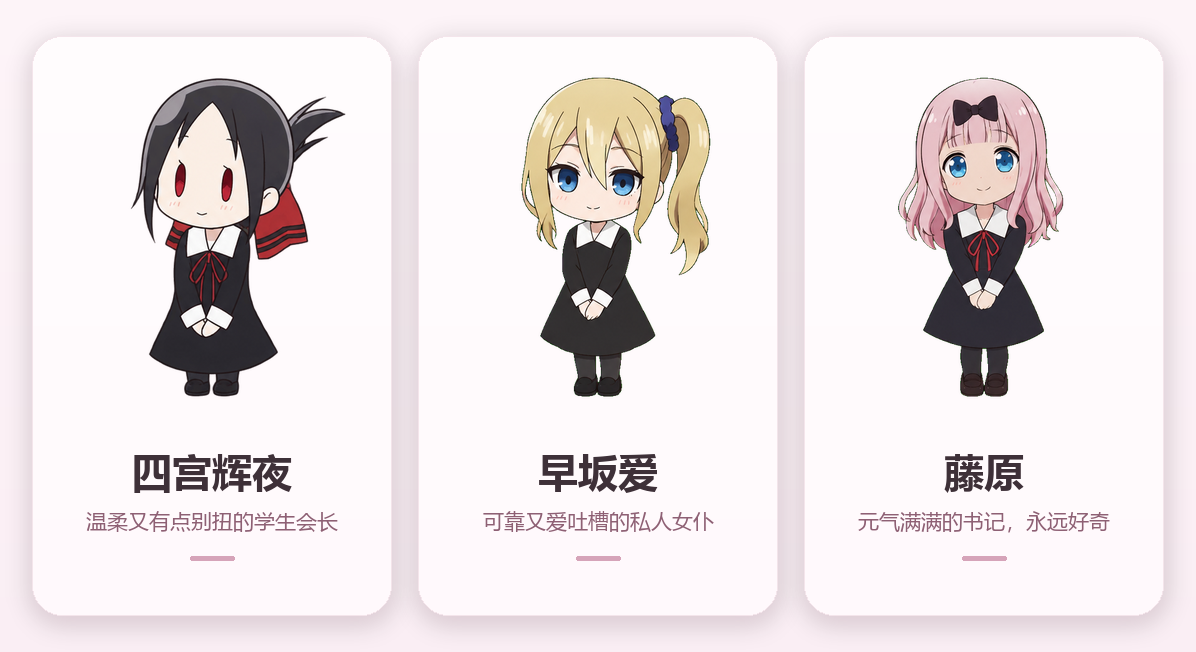
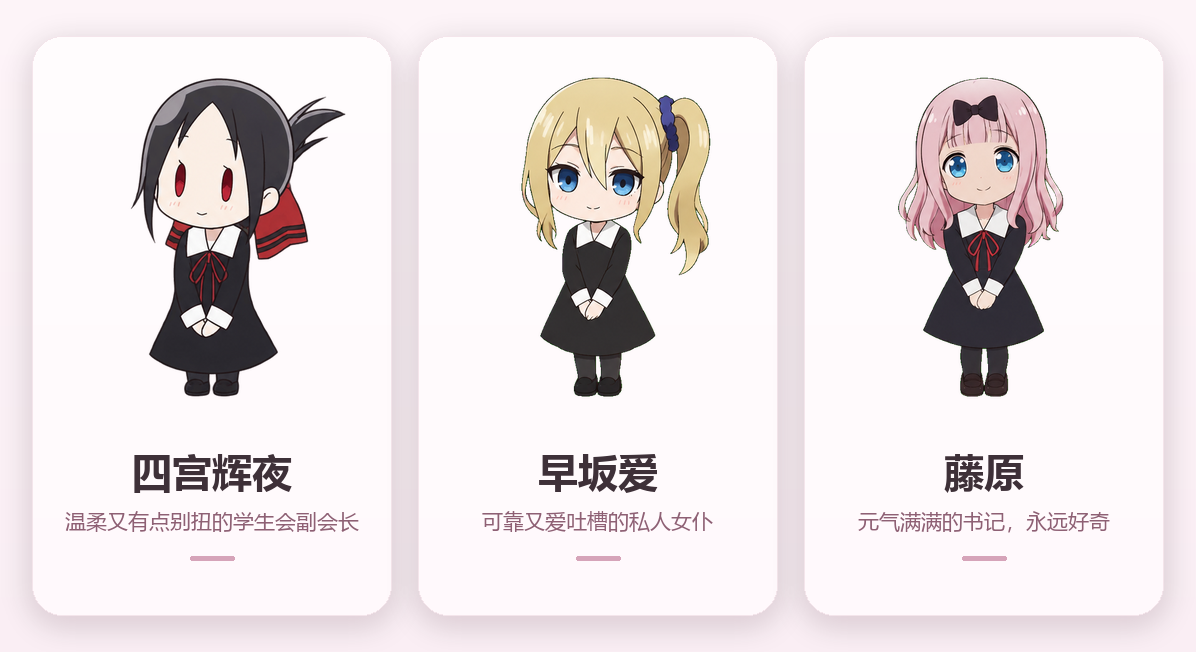
fix Kaguya's title and regenerate the README hero art
Kaguya is the student council vice president, not the president. Correct
the wording in the README table and render docs/characters.png from the
sprite assets with tools/make-readme-hero.py instead of retouching the
bitmap.

Changed region(s): [[0.0619, 0.7669, 0.3094, 0.8282], [0.4022, 0.7669, 0.5878, 0.8282]]

diff --git a/tools/make-readme-hero.py b/tools/make-readme-hero.py
@@ -1,0 +1,113 @@
+"""Compose the README hero art (docs/characters.png) from character sprites.
+
+Renders the three-card banner at 1196x652 using the same palette and layout as
+the committed artwork, so the image can be regenerated instead of retouched.
+"""
+from pathlib import Path
+from PIL import Image, ImageDraw, ImageFilter, ImageFont
+
+ROOT = Path(__file__).resolve().parents[1]
+OUT = ROOT / "docs" / "characters.png"
+
+W, H = 1196, 652
+CW, CH, GAP = 360, 580, 26
+X = (W - (CW * 3 + GAP * 2)) // 2
+Y = (H - CH) // 2
+RADIUS = 30
+
+FONT_REG = "C:/Windows/Fonts/msyh.ttc"
+FONT_BOLD = "C:/Windows/Fonts/msyhbd.ttc"
+
+BG_TOP = (253, 244, 248)
+BG_BOTTOM = (250, 238, 244)
+CARD_TOP = (255, 252, 253)
+CARD_BOTTOM = (255, 249, 252)
+BORDER = (244, 229, 235)
+NAME = (62, 48, 56)
+SUBTITLE = (142, 96, 116)
+ACCENT = (214, 164, 185)
+
+NAME_SIZE, NAME_Y = 40, 471
+SUB_SIZE, SUB_Y = 21, 520
+ACCENT_Y = 556
+
+
+def font(path, size):
+    return ImageFont.truetype(path, size)
+
+
+def gradient(size, top, bottom):
+    w, h = size
+    line = Image.new("RGB", (1, h))
+    for y in range(h):
+        t = y / max(1, h - 1)
+        line.putpixel((0, y), tuple(round(top[i] + (bottom[i] - top[i]) * t) for i in range(3)))
+    return line.resize((w, h), Image.Resampling.NEAREST).convert("RGBA")
+
+
+def rounded_mask(size, box, radius):
+    mask = Image.new("L", size, 0)
+    ImageDraw.Draw(mask).rounded_rectangle(box, radius=radius, fill=255)
+    return mask
+
+
+def soft_shadow(canvas, box, radius, blur=14, offset=(0, 8), alpha=56):
+    layer = Image.new("RGBA", canvas.size, (0, 0, 0, 0))
+    b = (box[0] + offset[0], box[1] + offset[1], box[2] + offset[0], box[3] + offset[1])
+    ImageDraw.Draw(layer).rounded_rectangle(b, radius=radius, fill=(146, 94, 118, alpha))
+    layer = layer.filter(ImageFilter.GaussianBlur(blur))
+    return Image.alpha_composite(canvas, layer)
+
+
+def make_card(canvas, box, radius):
+    x0, y0, x1, y1 = box
+    canvas = soft_shadow(canvas, box, radius)
+    mask = rounded_mask(canvas.size, box, radius)
+    fill = gradient((x1 - x0, y1 - y0), CARD_TOP, CARD_BOTTOM).convert("RGBA")
+    card = Image.new("RGBA", canvas.size, (0, 0, 0, 0))
+    card.paste(fill, (x0, y0), mask.crop(box))
+    ImageDraw.Draw(card).rounded_rectangle(box, radius=radius, outline=BORDER, width=1)
+    return Image.alpha_composite(canvas, card)
+
+
+def character(canvas, name, pose, center_x, top, target_h, axis_x):
+    src = Image.open(ROOT / "assets" / name / f"{pose}.png").convert("RGBA")
+    scale = target_h / src.height
+    w = round(src.width * scale)
+    im = src.resize((w, target_h), Image.Resampling.LANCZOS)
+    pivot = axis_x * scale
+    canvas.alpha_composite(im, (round(center_x - pivot), top))
+    return canvas
+
+
+def compose():
+    canvas = gradient((W, H), BG_TOP, BG_BOTTOM)
+
+    cards = [
+        ("kaguya", "四宫辉夜", "温柔又有点别扭的学生会副会长"),
+        ("hayasaka", "早坂爱", "可靠又爱吐槽的私人女仆"),
+        ("fujiwara", "藤原", "元气满满的书记，永远好奇"),
+    ]
+
+    name_f = font(FONT_BOLD, NAME_SIZE)
+    sub_f = font(FONT_REG, SUB_SIZE)
+
+    for i, (name, display, subtitle) in enumerate(cards):
+        x = X + i * (CW + GAP)
+        box = (x, Y, x + CW - 1, Y + CH - 1)
+        canvas = make_card(canvas, box, RADIUS)
+
+        cx = x + CW // 2
+        canvas = character(canvas, name, "idle", cx, Y + 18, 360, axis_x=214)
+
+        d = ImageDraw.Draw(canvas)
+        d.text((cx, NAME_Y), display, font=name_f, fill=NAME, anchor="mm")
+        d.text((cx, SUB_Y), subtitle, font=sub_f, fill=SUBTITLE, anchor="mm")
+        d.rounded_rectangle((cx - 22, ACCENT_Y, cx + 22, ACCENT_Y + 4), radius=2, fill=ACCENT)
+
+    canvas.convert("RGB").save(OUT, optimize=True)
+    print("saved", OUT, canvas.size)
+
+
+if __name__ == "__main__":
+    compose()

diff --git a/docs/DEVELOPMENT.md b/docs/DEVELOPMENT.md
@@ -68,3 +68,4 @@ electron tools\export-ui.cjs --ui-scale=1.25
 - `tools/extract-original-cursors.ps1 -ElectronExe <path>`：从原 Electron 可执行文件中提取光标资源，输出到 `verification/original-cursors`。
 - `tools/build-kaguya-icon.ps1`：从 `assets/kaguya/idle.png` 生成 16–256px 的多尺寸 ICO。
 - `tools/verify-kaguya-icon.ps1`：检查 EXE 与 Shell 图标非空，结果写入 `verification/icon-check.json`。
+- `tools/make-readme-hero.py`：从 `assets/*/idle.png` 和各角色文案重新绘制 README 顶部的三人物横幅 `docs/characters.png`（需要 Python 与 Pillow）。

diff --git a/README.md b/README.md
@@ -34,7 +34,7 @@
 
 | 角色 | 她的样子 |
 | --- | --- |
-| **四宫辉夜** | 温柔又有点别扭的学生会长。摸头会害羞，喝茶时安静地陪着你。 |
+| **四宫辉夜** | 温柔又有点别扭的学生会副会长。摸头会害羞，喝茶时安静地陪着你。 |
 | **早坂爱** | 可靠、冷静、偶尔吐槽的私人女仆。被摸头会先愣一下，再放松下来整理马尾。 |
 | **藤原** | 元气满满的书记。摸头、喝茶、睡醒都活力十足。 |
 
